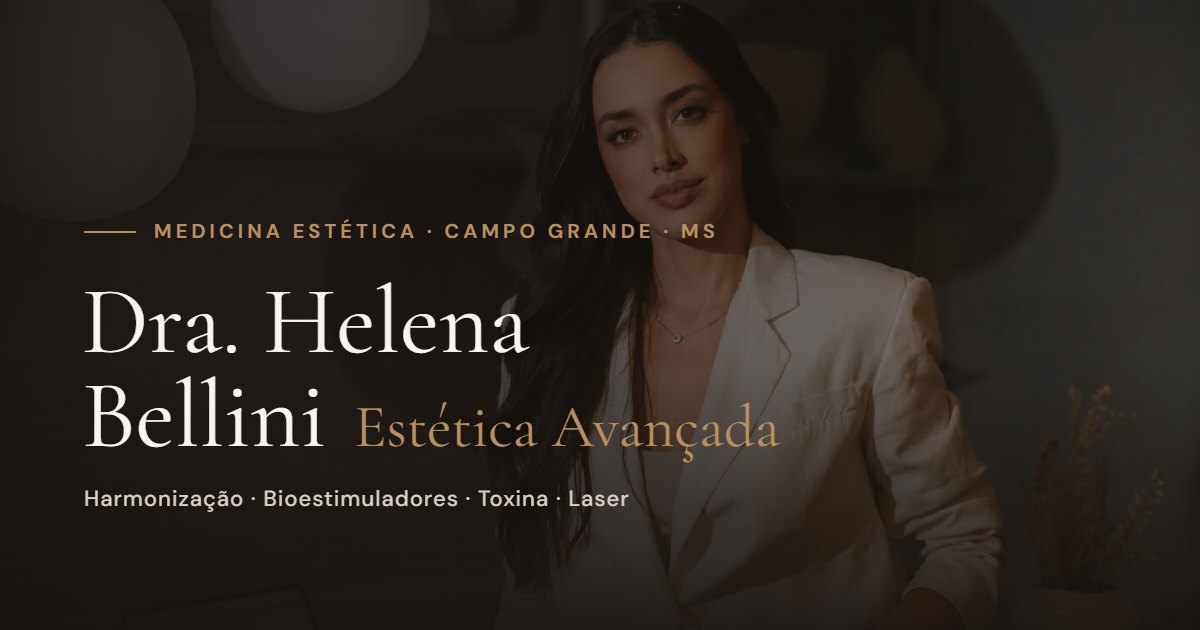
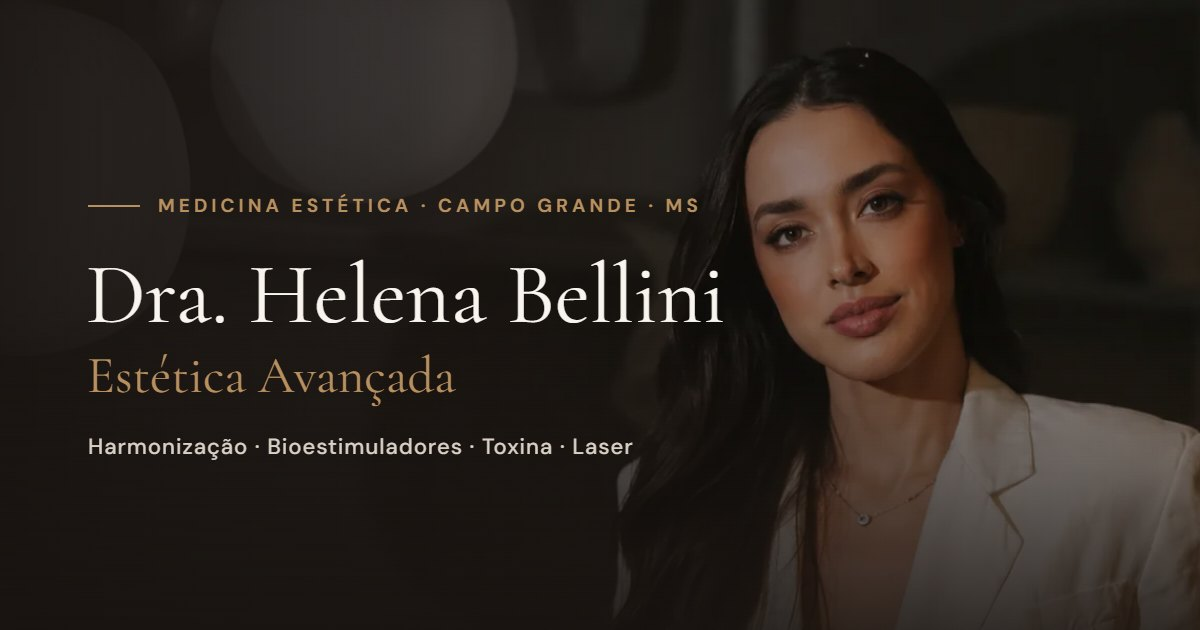
link atualizado

diff --git a/index.html b/index.html
@@ -17,6 +17,26 @@
   <title>Dra. Helena Bellini | Medicina Estética Avançada</title>
   <meta name="description"
     content="Medicina Estética de alta performance em Campo Grande - MS. Harmonização Facial, Bioestimuladores, Toxina Botulínica e muito mais. Atendimento humanizado com protocolos baseados em evidências.">
+
+  <!-- ════════ Preview ao compartilhar o link (Open Graph + Twitter) ════════
+       A og:image PRECISA ser URL absoluta. Se trocar o card, regenere o JPG e
+       incremente o ?v= da og:image (WhatsApp/Facebook cacheiam a imagem por URL). -->
+  <meta property="og:type" content="website">
+  <meta property="og:site_name" content="Dra. Helena Bellini — Medicina Estética Avançada">
+  <meta property="og:locale" content="pt_BR">
+  <meta property="og:url" content="https://bellini-estetica.vercel.app/">
+  <meta property="og:title" content="Dra. Helena Bellini | Medicina Estética Avançada">
+  <meta property="og:description" content="Medicina Estética de alta performance em Campo Grande - MS. Harmonização Facial, Bioestimuladores, Toxina Botulínica, Laser e mais.">
+  <meta property="og:image" content="https://bellini-estetica.vercel.app/assets/images/og-image.jpg?v=1">
+  <meta property="og:image:width" content="1200">
+  <meta property="og:image:height" content="630">
+  <meta property="og:image:type" content="image/jpeg">
+  <meta property="og:image:alt" content="Dra. Helena Bellini — Medicina Estética Avançada, Campo Grande - MS">
+  <meta name="twitter:card" content="summary_large_image">
+  <meta name="twitter:title" content="Dra. Helena Bellini | Medicina Estética Avançada">
+  <meta name="twitter:description" content="Medicina Estética de alta performance em Campo Grande - MS. Harmonização Facial, Bioestimuladores, Toxina Botulínica, Laser e mais.">
+  <meta name="twitter:image" content="https://bellini-estetica.vercel.app/assets/images/og-image.jpg?v=1">
+
   <link rel="preload" href="assets/fonts/cormorant-garamond-300.woff2" as="font" type="font/woff2" crossorigin>
   <link rel="preload" href="assets/fonts/dm-sans-400.woff2" as="font" type="font/woff2" crossorigin>
   <link rel="stylesheet" href="css/fonts.css">
